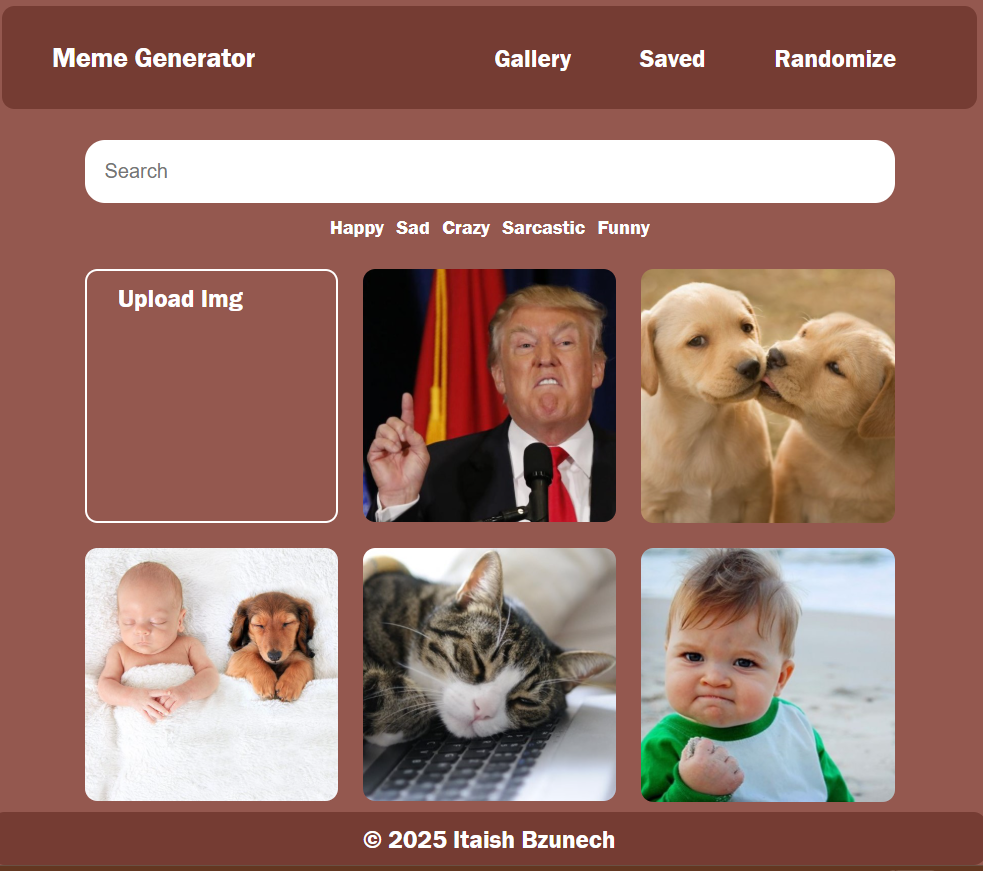
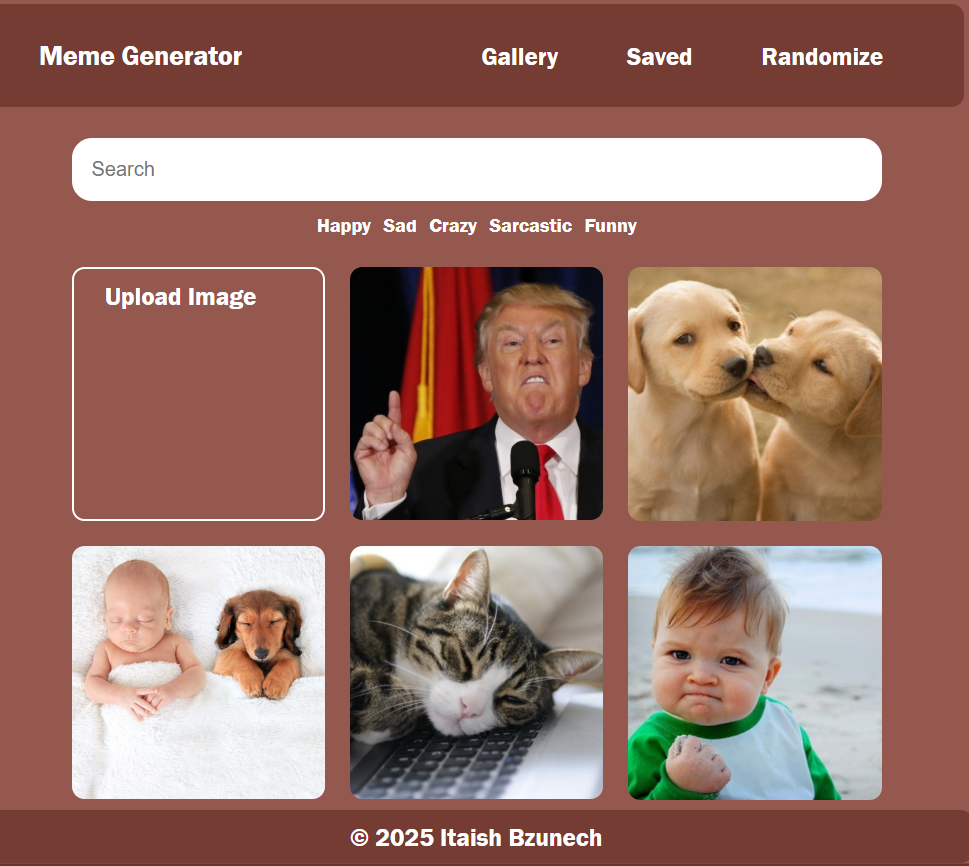
Add title

diff --git a/js/controller/galleryController.js b/js/controller/galleryController.js
@@ -10,7 +10,7 @@ function onShowGallery() {
 
 function renderGallery() {
   const imgs = getImgs(gFilter)
-  const upLoad = `<label for="file-input" class=" btn upload-btn">Upload Img</label>	<input onchange="onImgInput(event)" type="file" accept=".jpg, .jpeg, .png, .webp" 	class="file-input btn" id="file-input" name="image" hidden/>`
+  const upLoad = `<label for="file-input" class=" btn upload-btn">Upload Image</label>	<input onchange="onImgInput(event)" type="file" accept=".jpg, .jpeg, .png, .webp" 	class="file-input btn" id="file-input" name="image" hidden/>`
   const strHTML = imgs.map((img) => {
     return `<img src="${img.url}" onclick="onImgSelect(${img.id})" data-keys= ${img.keywords} >`
   })
